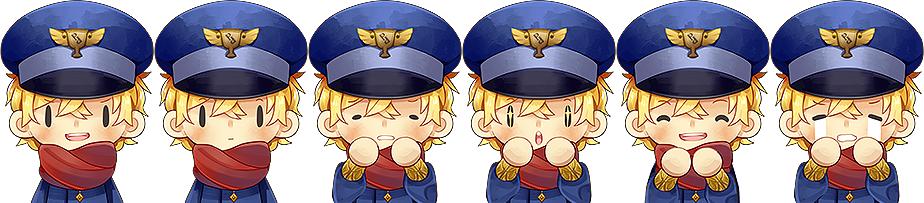
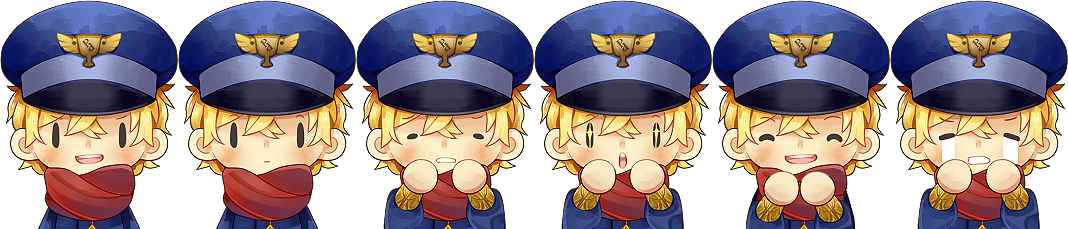
added new button and timer

diff --git a/www/index.html b/www/index.html
@@ -64,7 +64,7 @@
 
 			var isaacSpriteSheet = new createjs.SpriteSheet({
 				images: ["img/headshot_game.png"],
-				frames: {width:154, height:203},
+				frames: {width:178, height:229},
 				animations:{
 					normal: [0],
 					think: [1],
@@ -75,9 +75,9 @@
 				}
 			});
 
-			var his = new createjs.Sprite(isaacSpriteSheet, "normal");
-			his.x = 18 + 25;
-			his.y = stageH - 18 - 203;
+			var his = new createjs.Sprite(isaacSpriteSheet, "excite");
+			his.x = 18 + 15;
+			his.y = stageH - 18 - 229;
 			stage.addChild(his);
 
 			var mailSpriteSheet = new createjs.SpriteSheet({
@@ -103,6 +103,15 @@
 					counter ++;
 					tContent.text = dialogue[counter];
 				}
+			});
+
+			var btnChange = new createjs.Bitmap("img/btn_change.png");
+			stage.addChild(btnChange);
+			btnChange.x = stageW - 18 - 3 - 100;
+			btnChange.y = stageH - 18 - 184 - 42;
+
+			btnChange.addEventListener("click", function(e){
+				console.log("change puzzle");
 			});
 
 
@@ -159,7 +168,16 @@
 				stage.update();
 			});
 
+			var startTime = (new Date()).getTime();
 
+			var clockTab = new createjs.Bitmap("img/bg_timer.png");
+			stage.addChild(clockTab);
+
+			var timerText = new createjs.Text("300s", "32px strawberry", "#583f3b");
+			zim.centerReg(timerText,stage);
+			stage.addChild(timerText);
+			timerText.y = 62 + 30;
+			timerText.x = 18 + 67;
 
 			//-------------------------------------------------------
 
@@ -234,6 +252,10 @@
 			createjs.Ticker.addEventListener("tick", tick);
 
 			function tick(){
+				currentTime = (new Date()).getTime();
+				var time = Math.floor((currentTime-startTime)/1000);
+				timerText.text = (300 - time) + "s";
+
 				stage.update();
 			}
 		}
